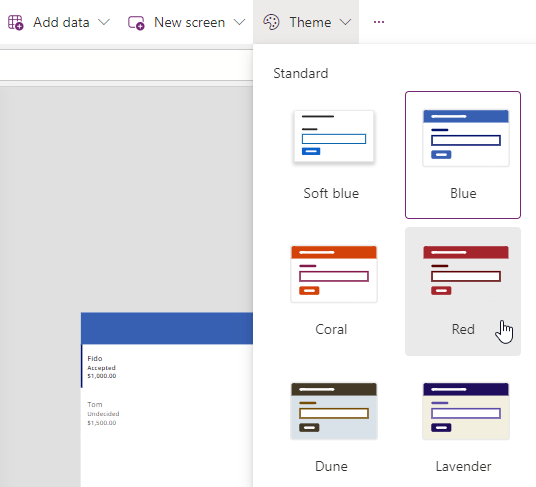
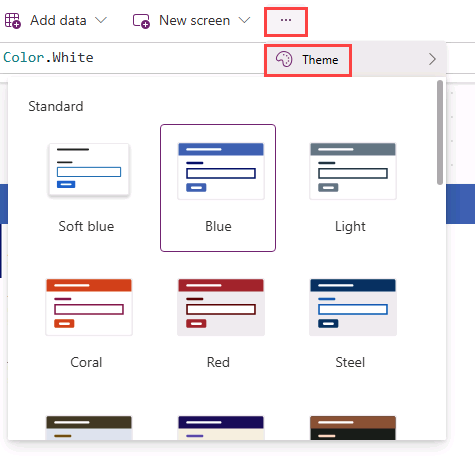
2025 course update
All lab steps reviewed
Screenshots updated
Added task for copying bookings to the SharePoint gallery

diff --git a/Instructions/Labs/LAB[PL-7001]_M05L01_External_data.md b/Instructions/Labs/LAB[PL-7001]_M05L01_External_data.md
@@ -170,7 +170,7 @@ In this lab you will add an external data source.
 
 1. Expand **BookingRequestList**.
 
-1. Select **NextArrow**.
+1. Select **NextArrow2**.
 
 1. Set the **OnSelect** property of NextArrow in the formula bar to:
 
@@ -209,11 +209,11 @@ In this lab you will add an external data source.
 1. Set the properties of the icon in the formula bar as follows:
 
    1. X=`150`
-   1. Y=`40`
+   1. Y=`60`
    1. Height=`30`
    1. Width=`30`
 
-    ![Screenshot of editing the gallery.](../media/icon-added-gallery.png)
+    ![Screenshot of editing the icon.](../media/icon-added-gallery.png)
 
 1. In the app authoring menu, select **Tree view**.
 
@@ -223,6 +223,39 @@ In this lab you will add an external data source.
 
     ```powerappsfl
     Patch('Booking Requests', ThisItem, {Decision: 'Decision (Booking Requests)'.Declined})
+    ```
+
+### Task 4.2 Confirm booking request
+
+1. In the app authoring menu, select **Tree view**.
+
+1. Select **BookingRequestList**.
+
+1. Select the **pencil** icon in the top-left of the gallery control.
+
+1. In the app authoring menu, select **Insert (+)**.
+
+1. Expand **Icons**.
+
+1. Select **Add**. The icon will be added to each row in the gallery.
+
+1. Set the properties of the icon in the formula bar as follows:
+
+   1. X=`150`
+   1. Y=`10`
+   1. Height=`30`
+   1. Width=`30`
+
+1. In the app authoring menu, select **Tree view**.
+
+1. Rename the icon to `AcceptIcon`.
+
+    ![Screenshot of editing the icons.](../media/icons-added-gallery.png)
+
+1. Set the **OnSelect** property of **AcceptIcon** in the formula bar to:
+
+    ```powerappsfl
+    Patch(Bookings,Defaults(Bookings),{Title:"New Booking",'Pet Name':ThisItem.'Pet Name','Owner Name':ThisItem.'Owner Name', 'Start Date':ThisItem.'Start Date','End Date':ThisItem.'End Date'})
     ```
 
 ## Exercise 5 – Office 365 Users
@@ -236,7 +269,6 @@ In this lab you will add an external data source.
 1. Select **Office 365 Users**.
 
 1. Select **Connect**.
-
 
 ### Task 5.2 Display the user's country
 
@@ -268,4 +300,3 @@ In this lab you will add an external data source.
 1. Select **Save** in the top-right of the Power Apps Studio.
 
 1. Select the **<- Back** button from the top left of the command bar, and select **Leave** to exit the app.
-

diff --git a/Instructions/Labs/LAB[PL-7001]_M06L01_Forms.md b/Instructions/Labs/LAB[PL-7001]_M06L01_Forms.md
@@ -67,7 +67,7 @@ In this lab you will use forms to create and edit records in a data source.
 
 1. In the **Tree view**, expand **BookingRequestList** in the **MainScreen**.
 
-1. Select **NextArrow** in **BookingRequestList**.
+1. Select **NextArrow2** in **BookingRequestList**.
 
 1. Set the **OnSelect** property of NextArrow in the formula bar to:
 
@@ -95,9 +95,9 @@ In this lab you will use forms to create and edit records in a data source.
 
 1. Expand **DetailScreen**.
 
-1. Expand **ScreenContainer**.
+1. Expand **ScreenContainer1**.
 
-1. Select **HeaderContainer** and select the Commands (**...**) and select **Paste** and select **Paste**.
+1. Select **HeaderContainer1** and select the Commands (**...**) and select **Paste**.
 
 1. Rename the icon to `BackIconDetail`.
 
@@ -123,7 +123,7 @@ In this lab you will use forms to create and edit records in a data source.
 
 1. In the FormViewer's properties, select **Booking Requests** for **Data source**.
 
-1. Select **10 selected** next to **Fields**.
+1. Select **8 selected** next to **Fields**.
 
     ![Screenshot of default form fields.](../media/add-fields-default.png)
 
@@ -247,7 +247,6 @@ In this lab you will use forms to create and edit records in a data source.
 
     ![Screenshot of the configured booking request form.](../media/bookingrequestform.png)
 
-
 ### Task 3.2 - Add submit button
 
 1. In the app authoring menu, select **Tree view**.
@@ -290,9 +289,9 @@ In this lab you will use forms to create and edit records in a data source.
 
 1. Expand **DetailScreen**.
 
-1. Expand **ScreenContainer**.
+1. Expand **ScreenContainer1**.
 
-1. Select  **HeaderContainer**.
+1. Select  **HeaderContainer1**.
 
 1. In the app authoring menu, select **Insert (+)**.
 
@@ -343,4 +342,3 @@ In this lab you will use forms to create and edit records in a data source.
 1. Select **Save** in the top-right of the Power Apps Studio.
 
 1. Select the **<- Back** button from the top left of the command bar, and select **Leave** to exit the app.
-

diff --git a/Instructions/Labs/LAB[PL-7001]_M02L01_Data_model.md b/Instructions/Labs/LAB[PL-7001]_M02L01_Data_model.md
@@ -105,7 +105,7 @@ In this lab you will create Dataverse tables and columns.
 1. In the **Booking Request columns and data** pane, select **+** and in the **New column** pane, enter or select the following values:
 
    1. Display name: `Notes`
-   1. Data type: **Multiple lines of text**
+   1. Data type: **Text** > **Multiple lines of text** > **Plain text**
    1. Format: **Text**
    1. Required: **Optional**
 
@@ -116,7 +116,7 @@ In this lab you will create Dataverse tables and columns.
 1. In the **Booking Request columns and data** pane, select **+** and in the **New column** pane, enter or select the following values:
 
    1. Display name: `Decision`
-   1. Data type: **Choice**
+   1. Data type: **Choice** > **Choice**
    1. Required: **Optional**
 
 1. Select **No** for **Sync with global choice?**
@@ -148,7 +148,7 @@ In this lab you will create Dataverse tables and columns.
 1. In the **Booking Request columns and data** pane, select **+** and in the **New column** pane, enter or select the following values:
 
    1. Display name: `Account`
-   1. Data type: **Lookup**
+   1. Data type: **Lookup** > **Lookup**
    1. Required: **Optional**
    1. Related table: **Account**
 

diff --git a/Instructions/Labs/LAB[PL-7001]_M07L01_Manage.md b/Instructions/Labs/LAB[PL-7001]_M07L01_Manage.md
@@ -50,7 +50,6 @@ In this lab you will manage your canvas app.
 
 1. **Close** the Share app pane.
 
-
 ### Task 1.2 - Publish the Booking Request app
 
 1. Select the **Booking Request app**, select the Commands (**...**), and select **Details**.
@@ -67,7 +66,6 @@ In this lab you will manage your canvas app.
 
 1. Select **Publish this version** again.
 
-
 ## Exercise 2 – Export
 
 ### Task 2.1 - Export the Booking Request app
@@ -82,7 +80,7 @@ In this lab you will manage your canvas app.
 
 1. Enter `Booking Request app` for **Name**.
 
-1. Select **Update** under **IMPORT SETUP**.
+1. Select **Update** under **Import setup**.
 
 1. Select **Create as new** and select **Save**.
 
@@ -91,7 +89,6 @@ In this lab you will manage your canvas app.
 1. Select **Export**.
 
 1. Wait for package to be created and downloaded. This creates a zip file in your **Downloads** folder.
-
 
 ### Task 2.2 - Save the app locally
 
@@ -106,4 +103,3 @@ In this lab you will manage your canvas app.
 1. Select **Download**.  This creates a .msapp file in your **Downloads** folder.
 
 1. Select the **<- Back** button from the top left of the command bar, and select **Leave** to exit the app.
-

diff --git a/Instructions/Labs/LAB[PL-7001]_M04L01_Build_UI.md b/Instructions/Labs/LAB[PL-7001]_M04L01_Build_UI.md
@@ -38,7 +38,7 @@ In this lab you will change the colors of the controls in the app.
 
 ### Task 1.2 - Select a theme
 
-1. In action bar in the Power Apps Studio, select **Theme**.
+1. In action bar in the Power Apps Studio, select the Commands (**...**) and select **Theme**.
 
     ![Screenshot of select themes.](../media/select-theme.png)
 
@@ -67,7 +67,6 @@ In this lab you will change the colors of the controls in the app.
     ```
 
 1. Select **Save** in the top-right of the Power Apps Studio.
-
 
 ## Exercise 2 – Personalization
 

diff --git a/Instructions/Labs/LAB[PL-7001]_M03L01_Canvas_app.md b/Instructions/Labs/LAB[PL-7001]_M03L01_Canvas_app.md
@@ -124,7 +124,7 @@ In this lab you will design and build a canvas app from blank, add a data source
 
 1. Select **Cost** for **Body1**.
 
-   > **NOTE:** The field names may show as schema names with a prefix isntead of the display name.
+   > **NOTE:** The field names may show as schema names with a prefix instead of the display name.
 
 1. Select **Decision** for **Subtitle2**.
 
